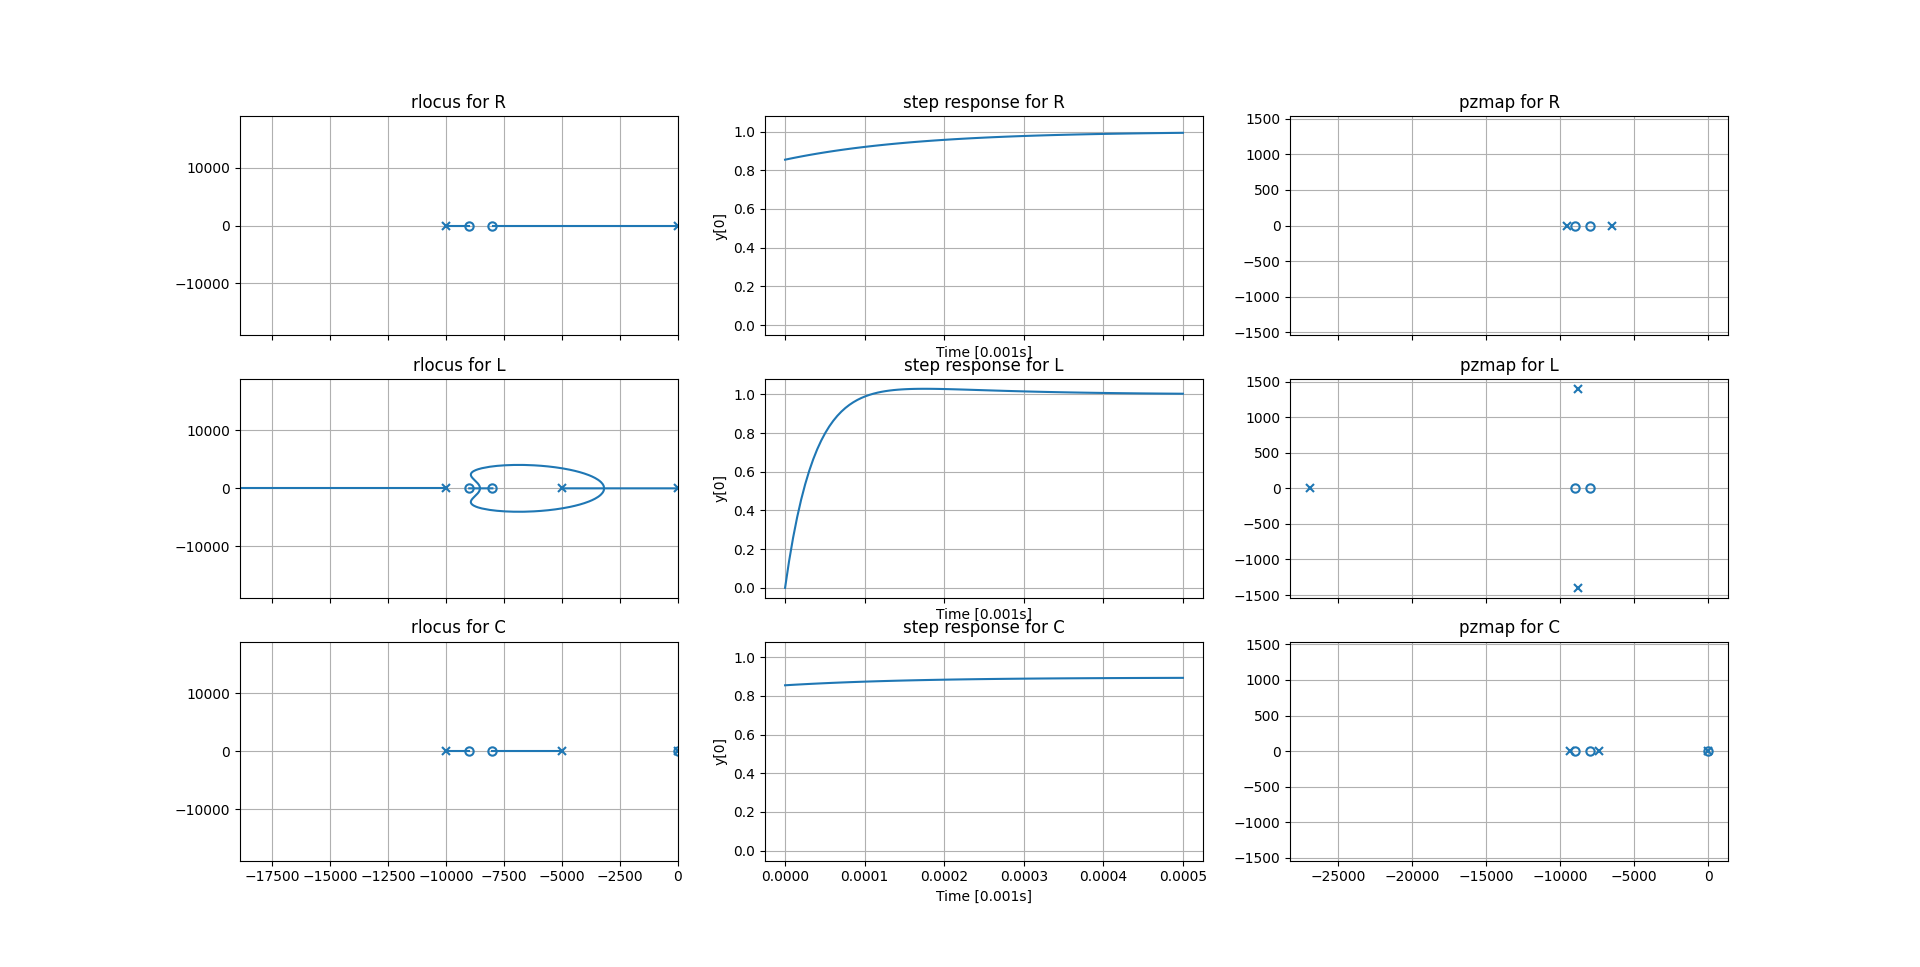
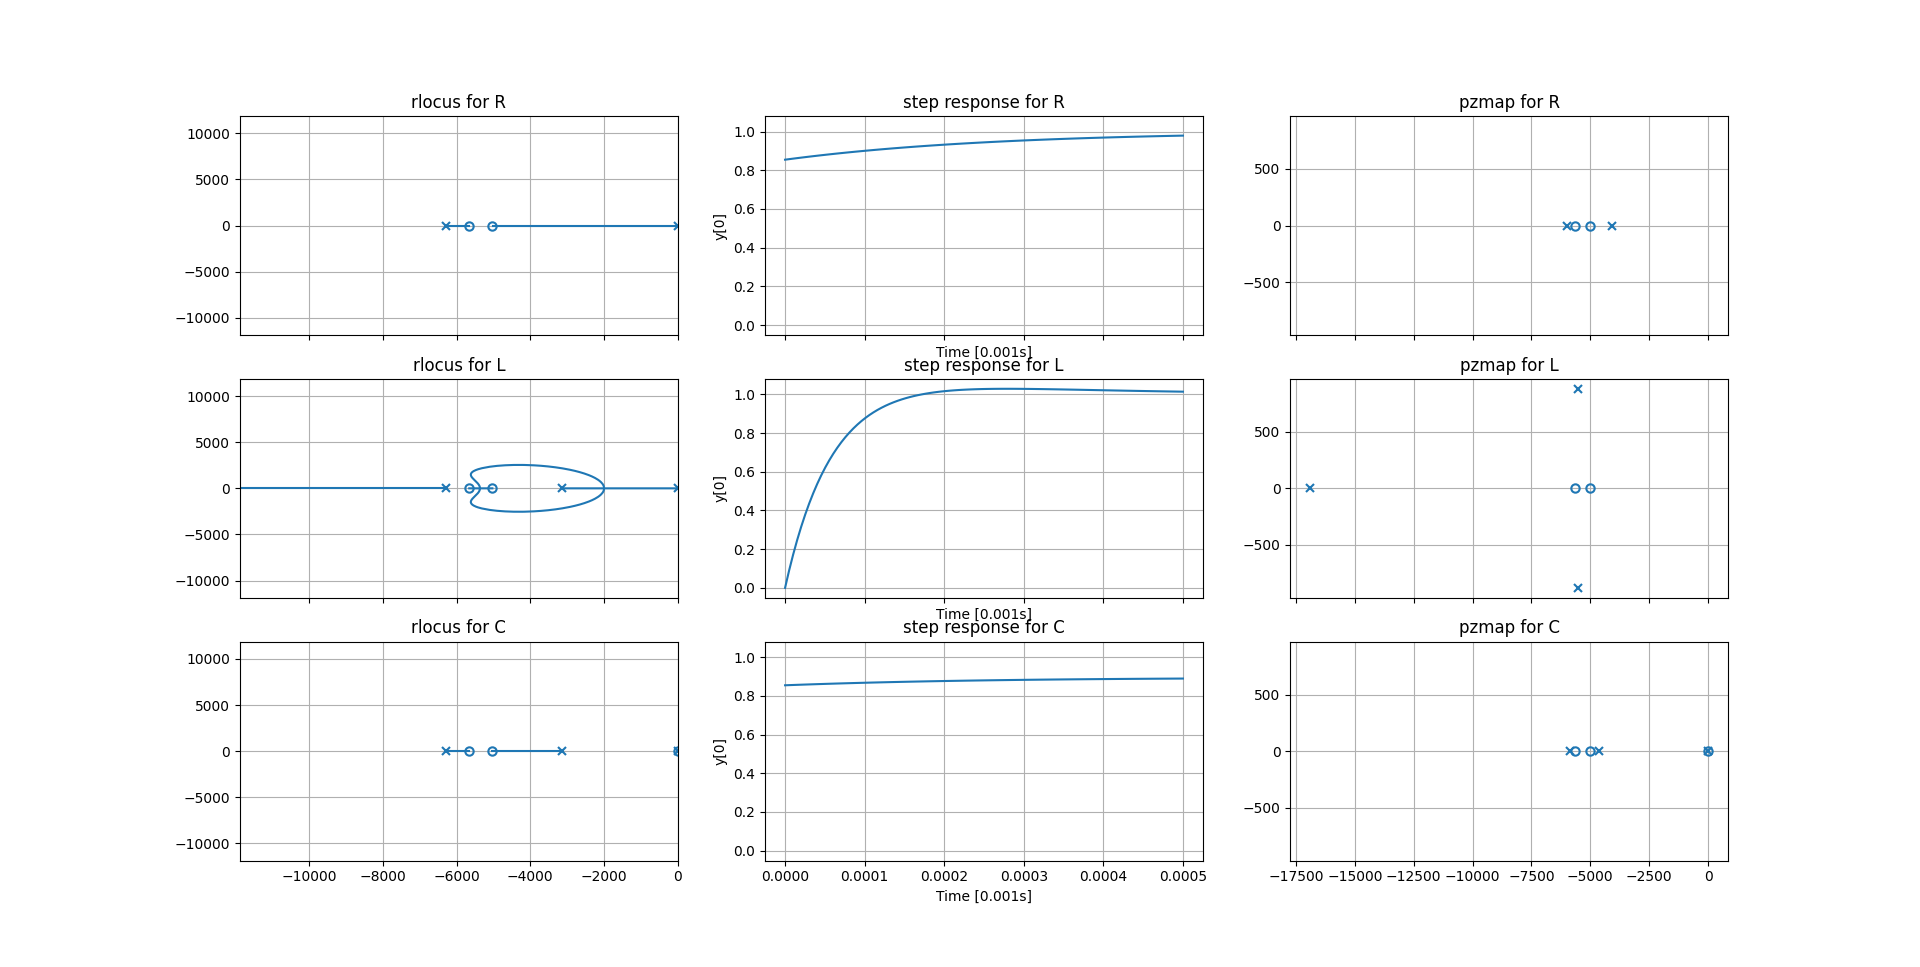
add control pid design parameters with current sensor pole

diff --git a/docs/design/pss/control/controller-design/controller-design.md b/docs/design/pss/control/controller-design/controller-design.md
@@ -2,7 +2,7 @@ Controller Design
 =================
 
 !!! info "TL;DR"
-    PID Controller with: $K_P = 10$, $T_i = 236 ns$, $T_d = 58.8 ns$
+    PID Controller with: $K_P = 10$, $T_i = 375 ns$, $T_d = 93.6 ns$
 
 This page describes the derivation of the mathematical description of the
 controller, which is used to control the power electronics. For the
@@ -113,12 +113,20 @@ for a gain $K_P = 10$.
     $f' = f / 1000$ to avoid limitations of python control, when using `scipy`
     instead of `slycot` for computations.
 
+    The shown pole zero map and root locus plot show the entire system without
+    the "high frequency" pole of the plant, because it causes numerical
+    instability. The pole is additionally negligible for current control,
+    because it is ten times faster, than the current sensor. For voltage control
+    the stability is not jeopardized, when the pole is of higher frequency, than
+    estimated in the control simulation. (Source: qualitative observation in
+    pole zero map for load cases "R", "RL", "RC")
+
 ### Obtained PID Parameters
 
 The parameters of the pid controller are:
 $$ Kp = 10 $$
-$$ Ti = 2.36e-7 \quad \wedge \quad Ki = 4.23e7 $$  
-$$ Td = 5.88e-8 \quad \wedge \quad Kd = 5.88e-7 $$
+$$ Ti = 3.75e-7 \quad \wedge \quad Ki = 2.66e7 $$  
+$$ Td = 9.36e-8 \quad \wedge \quad Kd = 9.36e-7 $$
 
 Which in turn yields the following transfer function:
-$$ G_{PID} = \frac{5.882 \cdot 10^{-7} s^2 + 10 s + 4.235 \cdot 10^4}{s} $$
+$$ G_{PID} = \frac{9.36 \cdot 10^{-7} s^2 + 10 s + 2.66 \cdot 10^7}{s} $$
